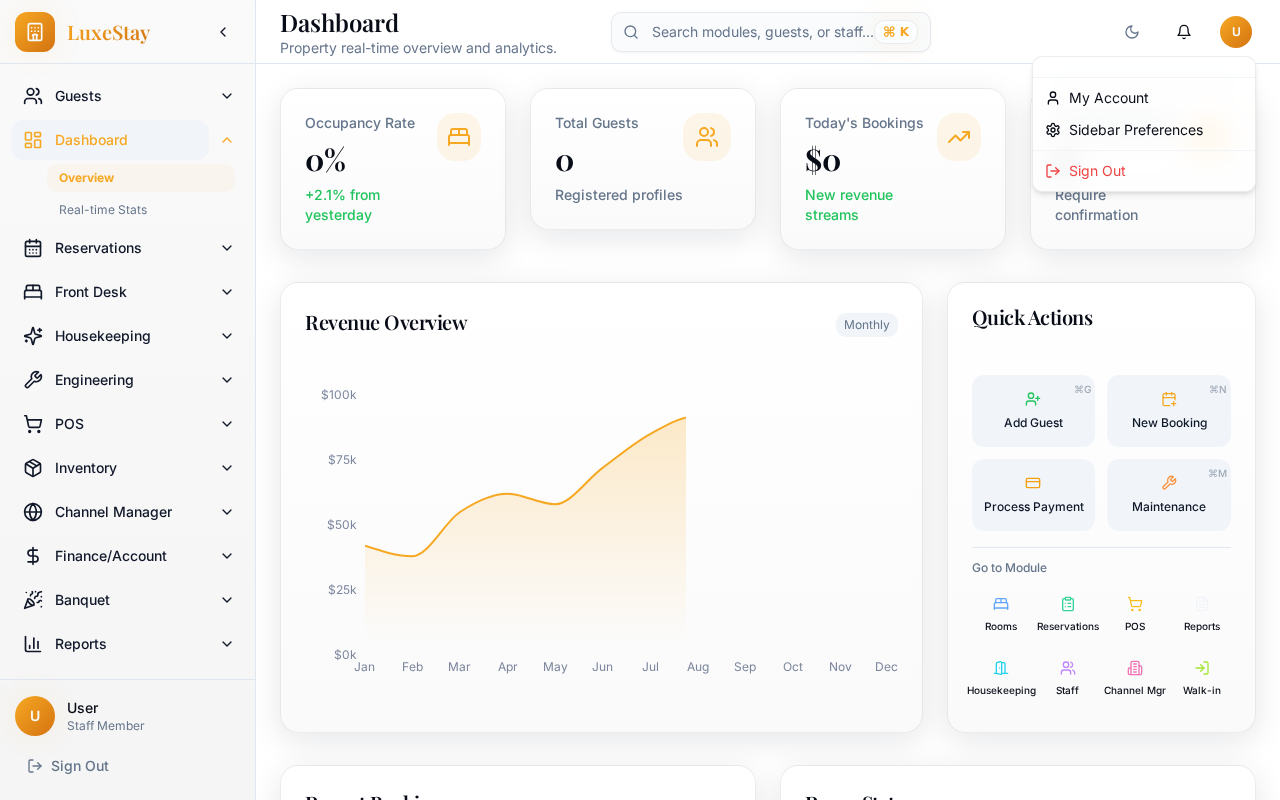
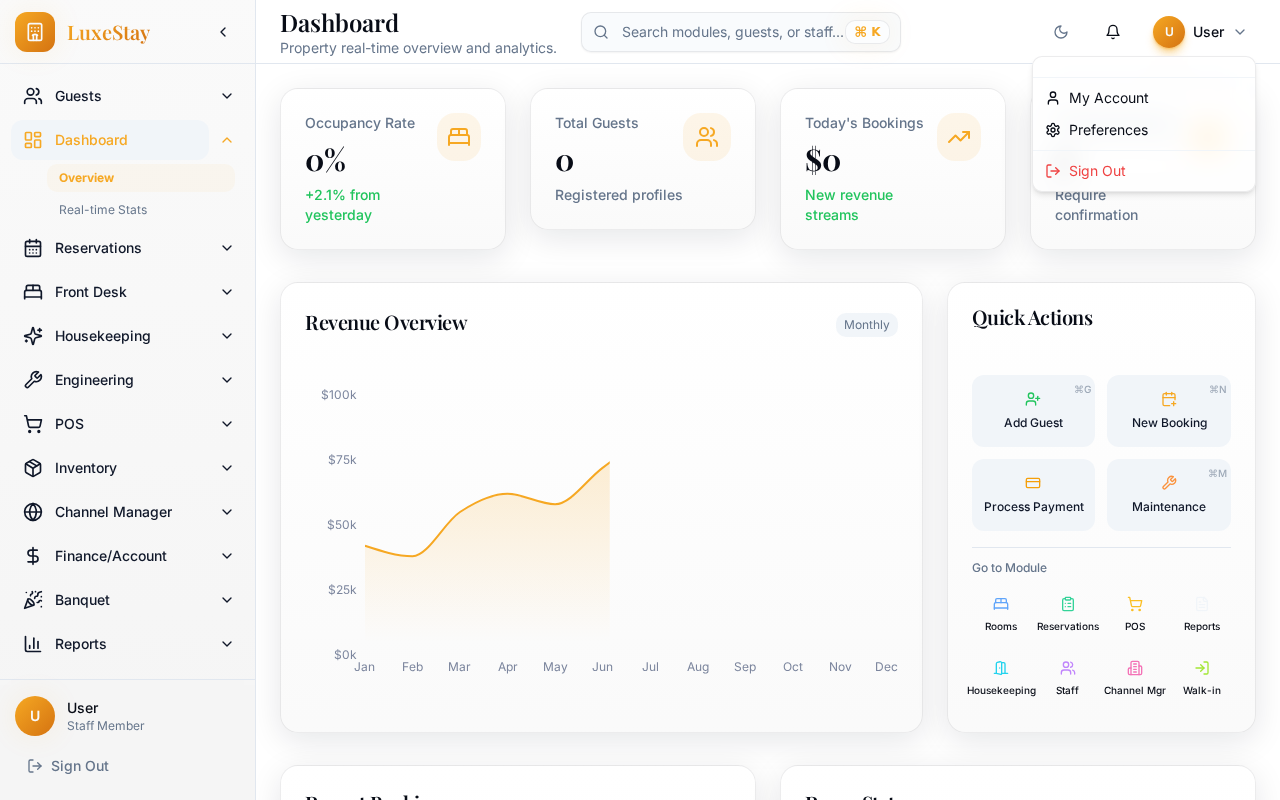
style: enhance header profile dropdown with 3D styling
- Added `shadow-3d` and `shadow-3d-gold` utility classes in `index.css`.
- Updated `GlobalHeader.tsx` profile trigger to show a 3D-styled icon, user's name, and a chevron.
- Renamed the preferences link to just 'Preferences'.

diff --git a/src/components/layout/GlobalHeader.tsx b/src/components/layout/GlobalHeader.tsx
@@ -1,5 +1,5 @@
 import { useState, useEffect } from "react";
-import { Bell, Search, Menu, Moon, Sun, User, X, LogOut, Settings } from "lucide-react";
+import { Bell, Search, Menu, Moon, Sun, User, X, LogOut, Settings, ChevronDown } from "lucide-react";
 import { Button } from "@/components/ui/button";
 import { useTheme } from "next-themes";
 import { Input } from "@/components/ui/input";
@@ -215,10 +215,14 @@ export function Header({ title, subtitle, headerActions }: HeaderProps) {
           {/* User Profile */}
           <DropdownMenu>
             <DropdownMenuTrigger asChild>
-              <Button variant="ghost" size="icon" className="rounded-full">
-                <div className="h-8 w-8 rounded-full bg-gradient-gold flex items-center justify-center">
+              <Button variant="ghost" className="gap-2 px-2 hover:bg-secondary/50 rounded-full transition-all">
+                <div className="h-8 w-8 rounded-full bg-gradient-gold flex items-center justify-center shadow-3d-gold transform hover:scale-105 transition-transform">
                   <span className="text-xs font-semibold text-primary-foreground">{getInitials()}</span>
                 </div>
+                <span className="hidden md:inline-block text-sm font-medium text-foreground">
+                  {profile?.first_name || "User"}
+                </span>
+                <ChevronDown className="h-4 w-4 text-muted-foreground hidden md:block" />
               </Button>
             </DropdownMenuTrigger>
             <DropdownMenuContent align="end" className="w-56">
@@ -238,7 +242,7 @@ export function Header({ title, subtitle, headerActions }: HeaderProps) {
               <DropdownMenuItem asChild>
                 <Link to="/staff?tab=about&sub=preferences" className="flex items-center gap-2 cursor-pointer">
                   <Settings className="h-4 w-4" />
-                  Sidebar Preferences
+                  Preferences
                 </Link>
               </DropdownMenuItem>
               <DropdownMenuSeparator />

diff --git a/src/index.css b/src/index.css
@@ -163,6 +163,22 @@
     box-shadow: var(--shadow-elevated);
   }
 
+  .shadow-3d {
+    box-shadow:
+      0 1px 1px hsl(var(--foreground) / 0.1),
+      0 2px 2px hsl(var(--foreground) / 0.1),
+      0 4px 4px hsl(var(--foreground) / 0.1),
+      0 8px 8px hsl(var(--foreground) / 0.1);
+  }
+
+  .shadow-3d-gold {
+    box-shadow:
+      0 1px 1px hsl(38 92% 50% / 0.2),
+      0 2px 2px hsl(38 92% 50% / 0.2),
+      0 4px 4px hsl(38 92% 50% / 0.2),
+      0 8px 8px hsl(38 92% 50% / 0.2);
+  }
+
   .animate-fade-in {
     animation: fadeIn 0.5s ease-out forwards;
   }

diff --git a/verify_header_v2.py b/verify_header_v2.py
@@ -1,0 +1,42 @@
+from playwright.sync_api import sync_playwright
+import time
+
+def verify_header_link():
+    with sync_playwright() as p:
+        browser = p.chromium.launch(headless=True)
+        page = browser.new_context(viewport={'width': 1280, 'height': 800}).new_page()
+
+        # Navigate to home
+        page.goto("http://localhost:8080")
+        time.sleep(2)
+
+        # Open profile dropdown
+        # The button is now a proper button with name/chevron
+        profile_button = page.locator("header .rounded-full").filter(has_text="User").first
+        if not profile_button.is_visible():
+            # Fallback for mobile or if name is different
+            profile_button = page.locator("header button.rounded-full").first
+
+        profile_button.click()
+        time.sleep(1)
+
+        # Take screenshot of the dropdown
+        page.screenshot(path="verification/header_dropdown_v2.png")
+
+        # Find the "Preferences" link
+        pref_link = page.get_by_text("Preferences").first
+        if pref_link.is_visible():
+            print("Preferences link is visible")
+            pref_link.click()
+            time.sleep(2)
+
+            # Verify redirection
+            print(f"Current URL after click: {page.url}")
+            page.screenshot(path="verification/redirected_preferences_v2.png")
+        else:
+            print("Preferences link NOT found")
+
+        browser.close()
+
+if __name__ == "__main__":
+    verify_header_link()
